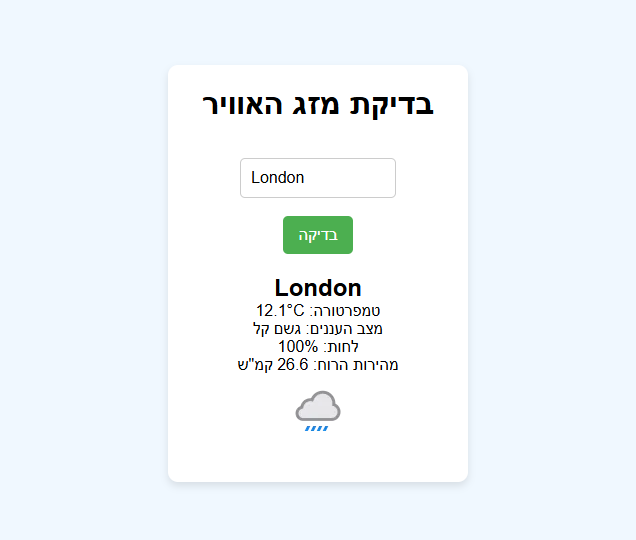
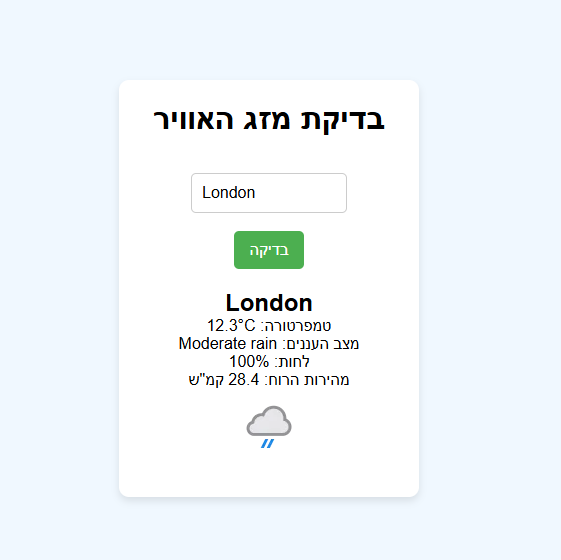
remove translation

Changed region(s): [[0.303, 0.2963, 0.6364, 0.8], [0.2727, 0.1778, 0.697, 0.237], [0.2727, 0.8889, 0.7273, 0.9185]]

diff --git a/projects/WeatherProject/scripts/index.js b/projects/WeatherProject/scripts/index.js
@@ -1,13 +1,7 @@
-import { weatherConditionTranslations } from "./translations.js"
-
 const button = document.getElementById('getWeather');
 const cityInput = document.getElementById('city');
 const weatherInfo = document.getElementById('weatherInfo');
 const error = document.getElementById('error');
-
-function translateWeatherCondition(condition) {
-    return weatherConditionTranslations[condition] || "לא ידוע";
-}
 
 button.addEventListener('click', () => {
     const city = cityInput.value;
@@ -44,7 +38,7 @@ async function getWeather(city) {
             tempElement.textContent = `${temperature}°C :טמפרטורה`;
 
             const descElement = document.createElement('p');
-            descElement.textContent = `מצב העננים: ${translateWeatherCondition(description)}`;
+            descElement.textContent = `${description} :מצב העננים`;
 
             const humidityElement = document.createElement('p');
             humidityElement.textContent = `${humidity}% :לחות`;

diff --git a/projects/WeatherProject/index.html b/projects/WeatherProject/index.html
@@ -5,7 +5,7 @@
     <meta name="viewport" content="width=device-width, initial-scale=1.0">
     <title>בדיקת מזג האוויר</title>
     <link rel="stylesheet" href="./styles/style.css">
-    <script src="./scripts/index.js" defer type="module"></script>
+    <script src="./scripts/index.js" defer></script>
 </head>
 <body>
     <div class="weather-container">
